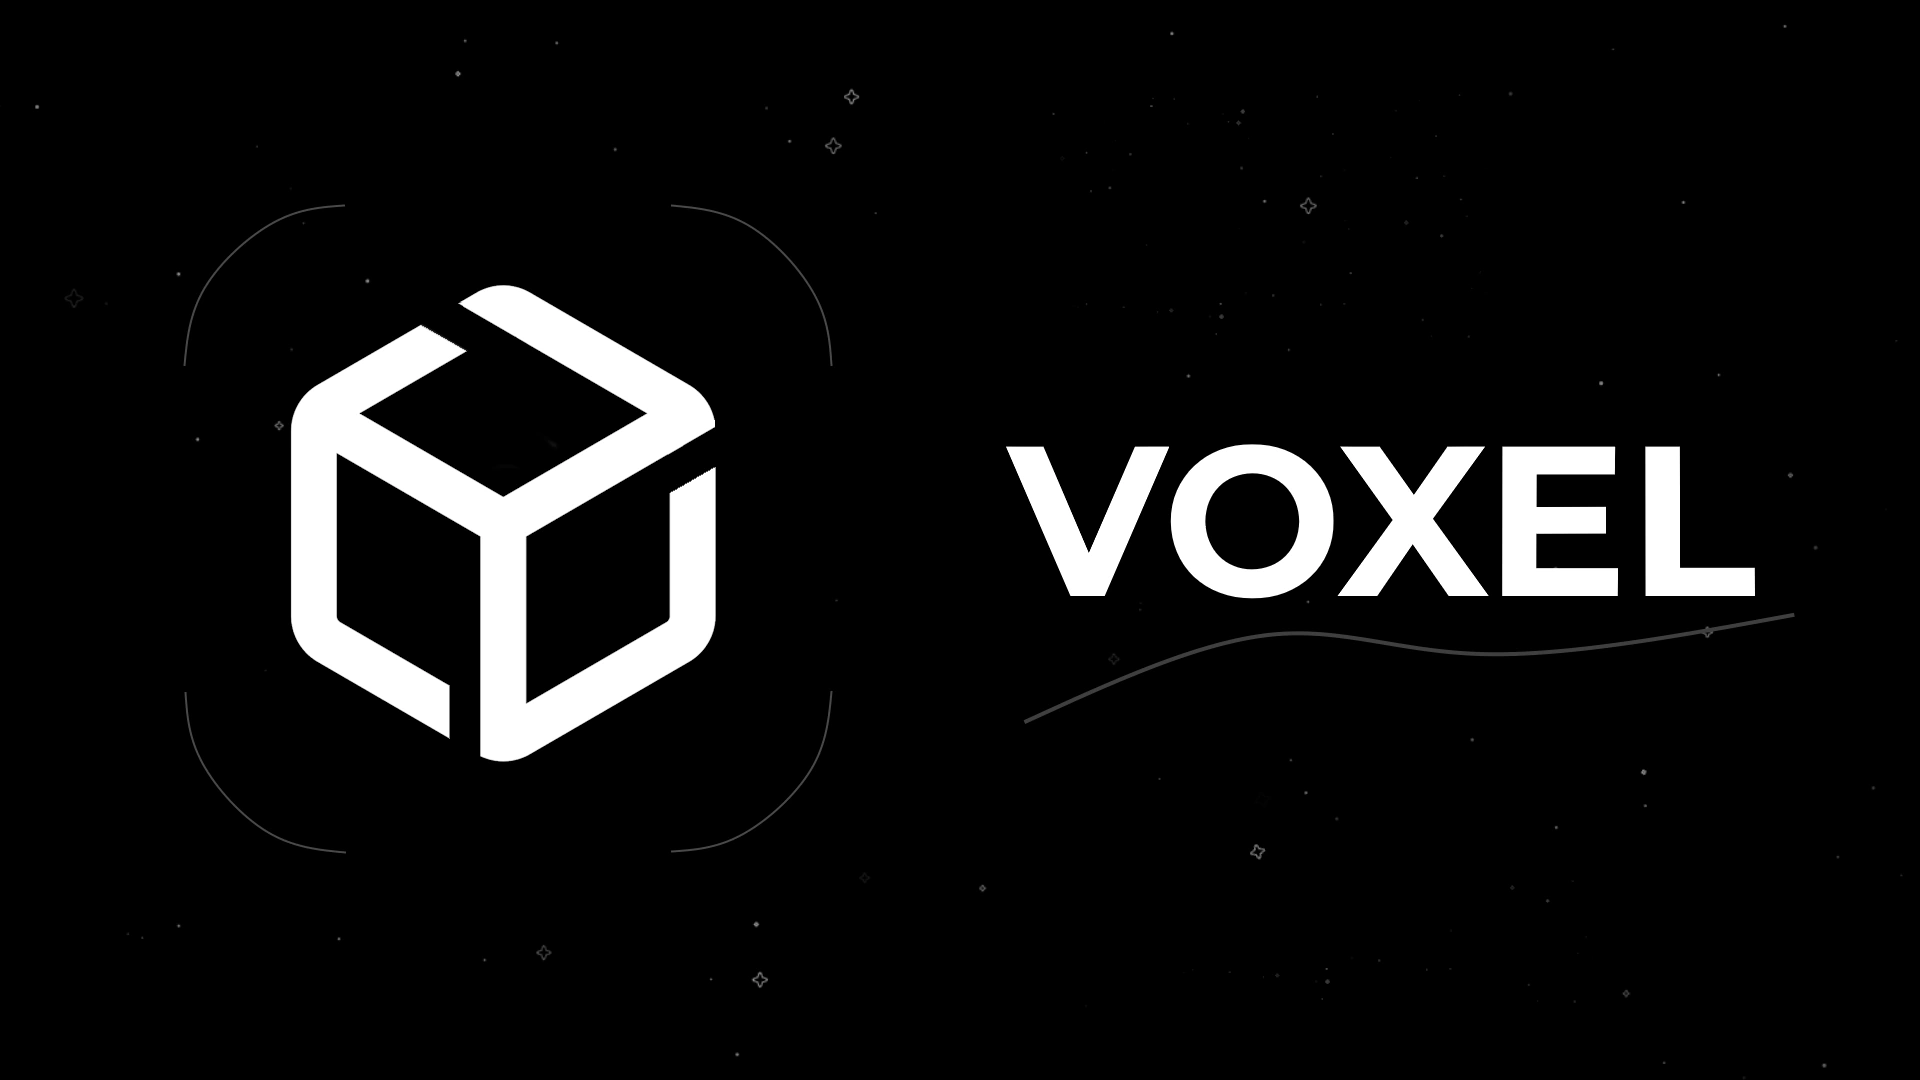
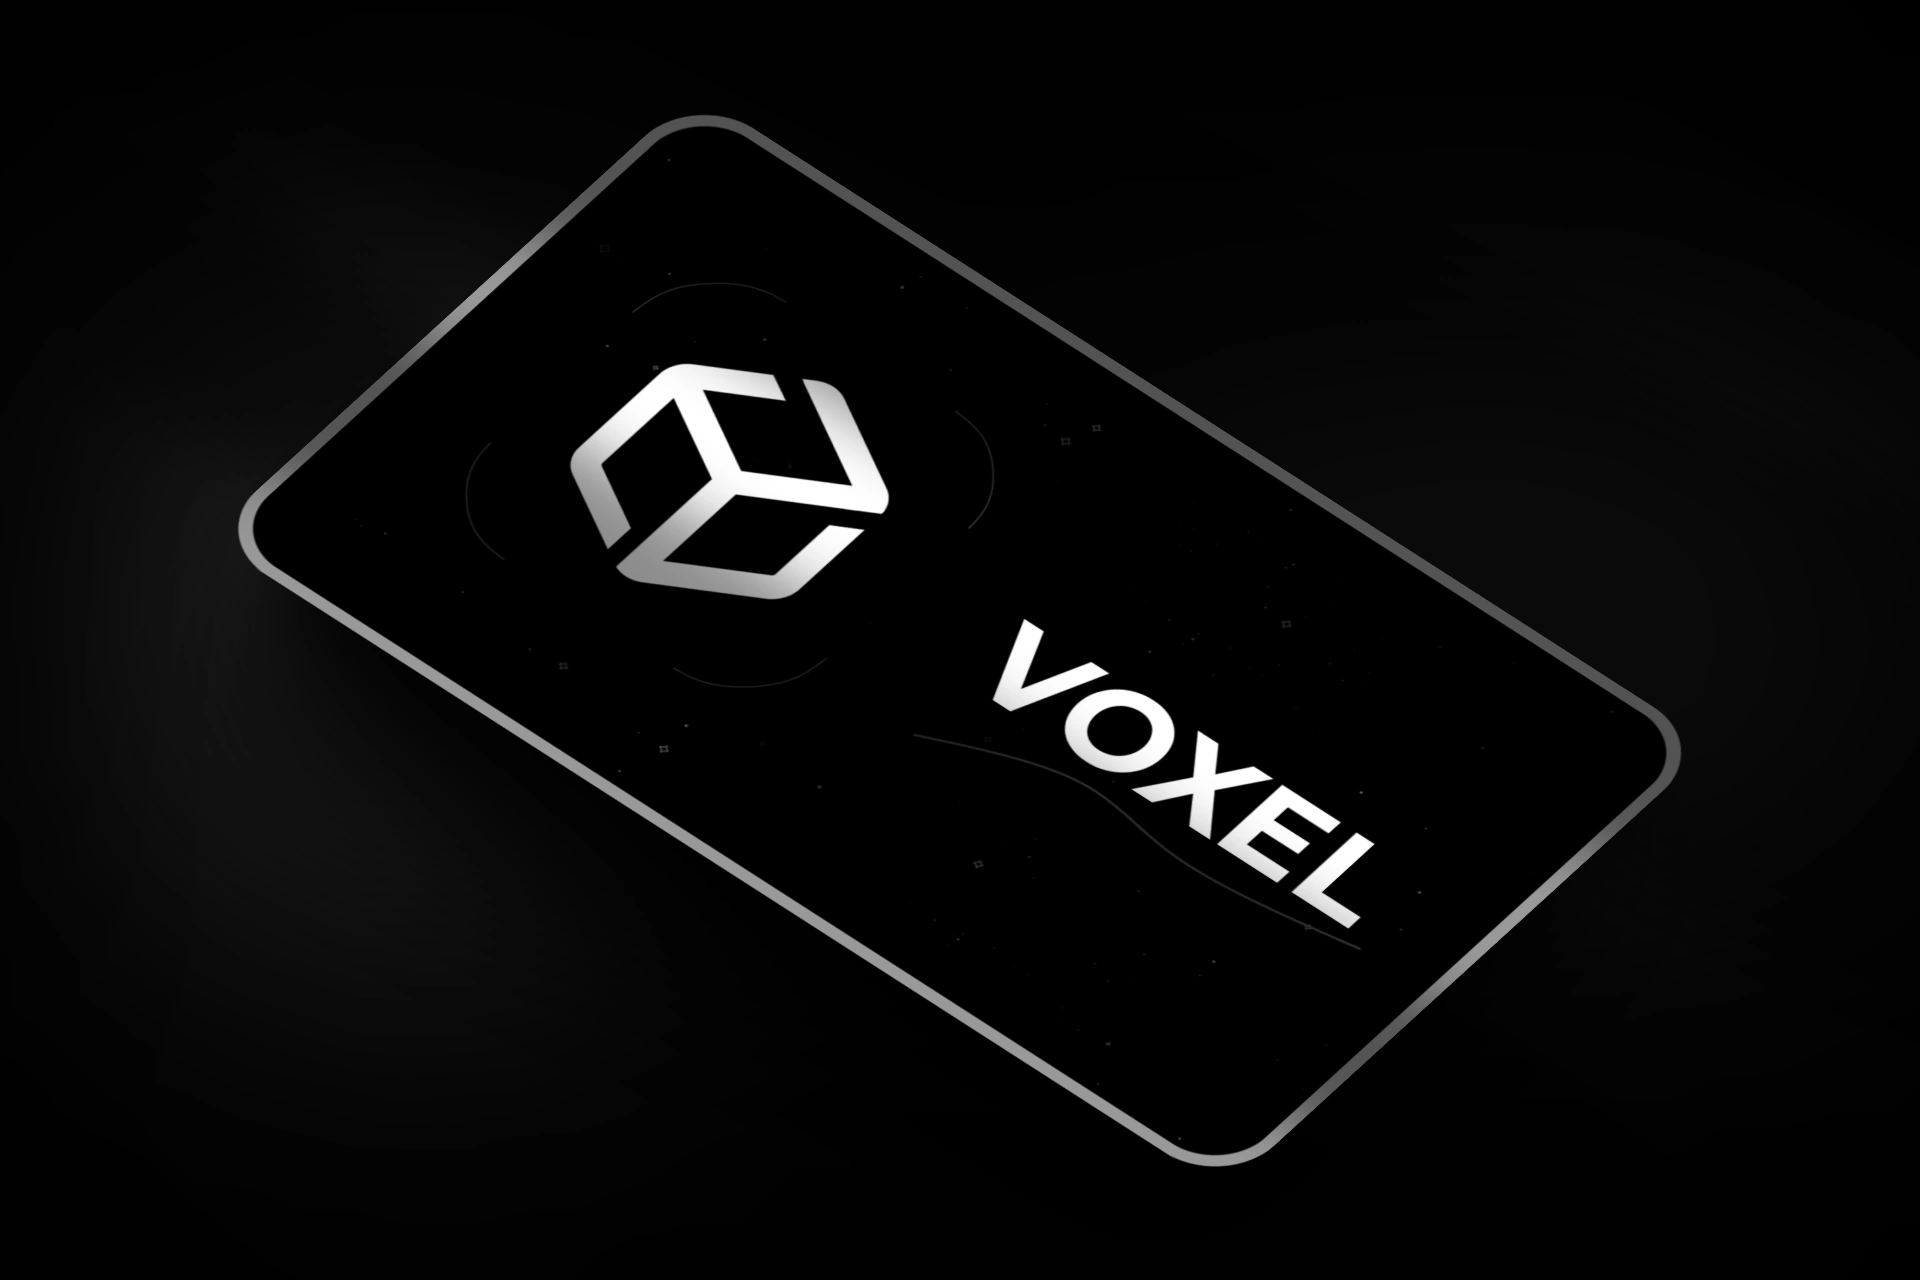
Update OpenGraph image and enhance French translations for clarity. Refactor layout helper to support multilingual descriptions and improve meta tags in the index page for better SEO.

diff --git a/src/lib/LayoutHelper.ts b/src/lib/LayoutHelper.ts
@@ -14,24 +14,34 @@ type LayoutHelperProps = {
 };
 
 const defaultTitle = "Voxel";
-const defaultDescription =
-    "Voxel, la référence pour tout développeur souhaitant se lancer ou se perfectionner dans la création de mods Minecraft. Offrant des ressources de pointe et des guides avancés, nous accompagnons chaque talent, du novice à l'expert, avec des solutions professionnelles adaptées à vos besoins.";
-const defaultImage = {
+const defaultDescription = {
+    "en-us":
+        "Voxel, a personal project, created by a passionate. The goal is to share knowledge and tools to help you develop your own creations.",
+    "fr-fr":
+        "Voxel est un projet personnel qui a été créé par un passionné. L'objectif est de partager mes connaissances ainsi que des outils pour vous aider à développer vos propres contenu."
+};
+const defaultOG = {
     title: defaultTitle,
-    description: defaultDescription,
+    description: defaultDescription["en-us"],
     image: "/opengraph.webp"
 };
 
 export class LayoutHelper implements BaseLayoutProps, LayoutHelperProps {
     site: URL;
     url: URL;
+    lang: keyof typeof defaultDescription;
     title = defaultTitle;
-    description = defaultDescription;
-    openGraph: { title: string; description: string; image: string } = defaultImage;
+    description = defaultDescription["en-us"];
+    openGraph: { title: string; description: string; image: string } = defaultOG;
 
     constructor(site: URL, url: URL, props?: BaseLayoutProps) {
         this.site = site;
         this.url = url;
+
+        const path = site.pathname.split("/")[1] as keyof typeof defaultDescription;
+        if (path !== "en-us" && path !== "fr-fr") this.lang = "en-us";
+        else this.lang = path;
+
         if (props?.title) this.title = props.title;
         if (props?.description) this.description = props.description;
         if (props?.openGraph) {
@@ -46,11 +56,11 @@ export class LayoutHelper implements BaseLayoutProps, LayoutHelperProps {
     }
 
     public setDescription(description: string | undefined) {
-        this.description = description || defaultDescription;
+        this.description = description || defaultDescription[this.lang];
     }
 
     public setOpenGraph(props: BaseLayoutProps["openGraph"] | undefined) {
-        if (!props) this.openGraph = defaultImage;
+        if (!props) this.openGraph = defaultOG;
         if (props?.title) this.openGraph.title = props.title;
         if (props?.description) this.openGraph.description = props.description;
         if (props?.image) this.openGraph.image = props.image;
